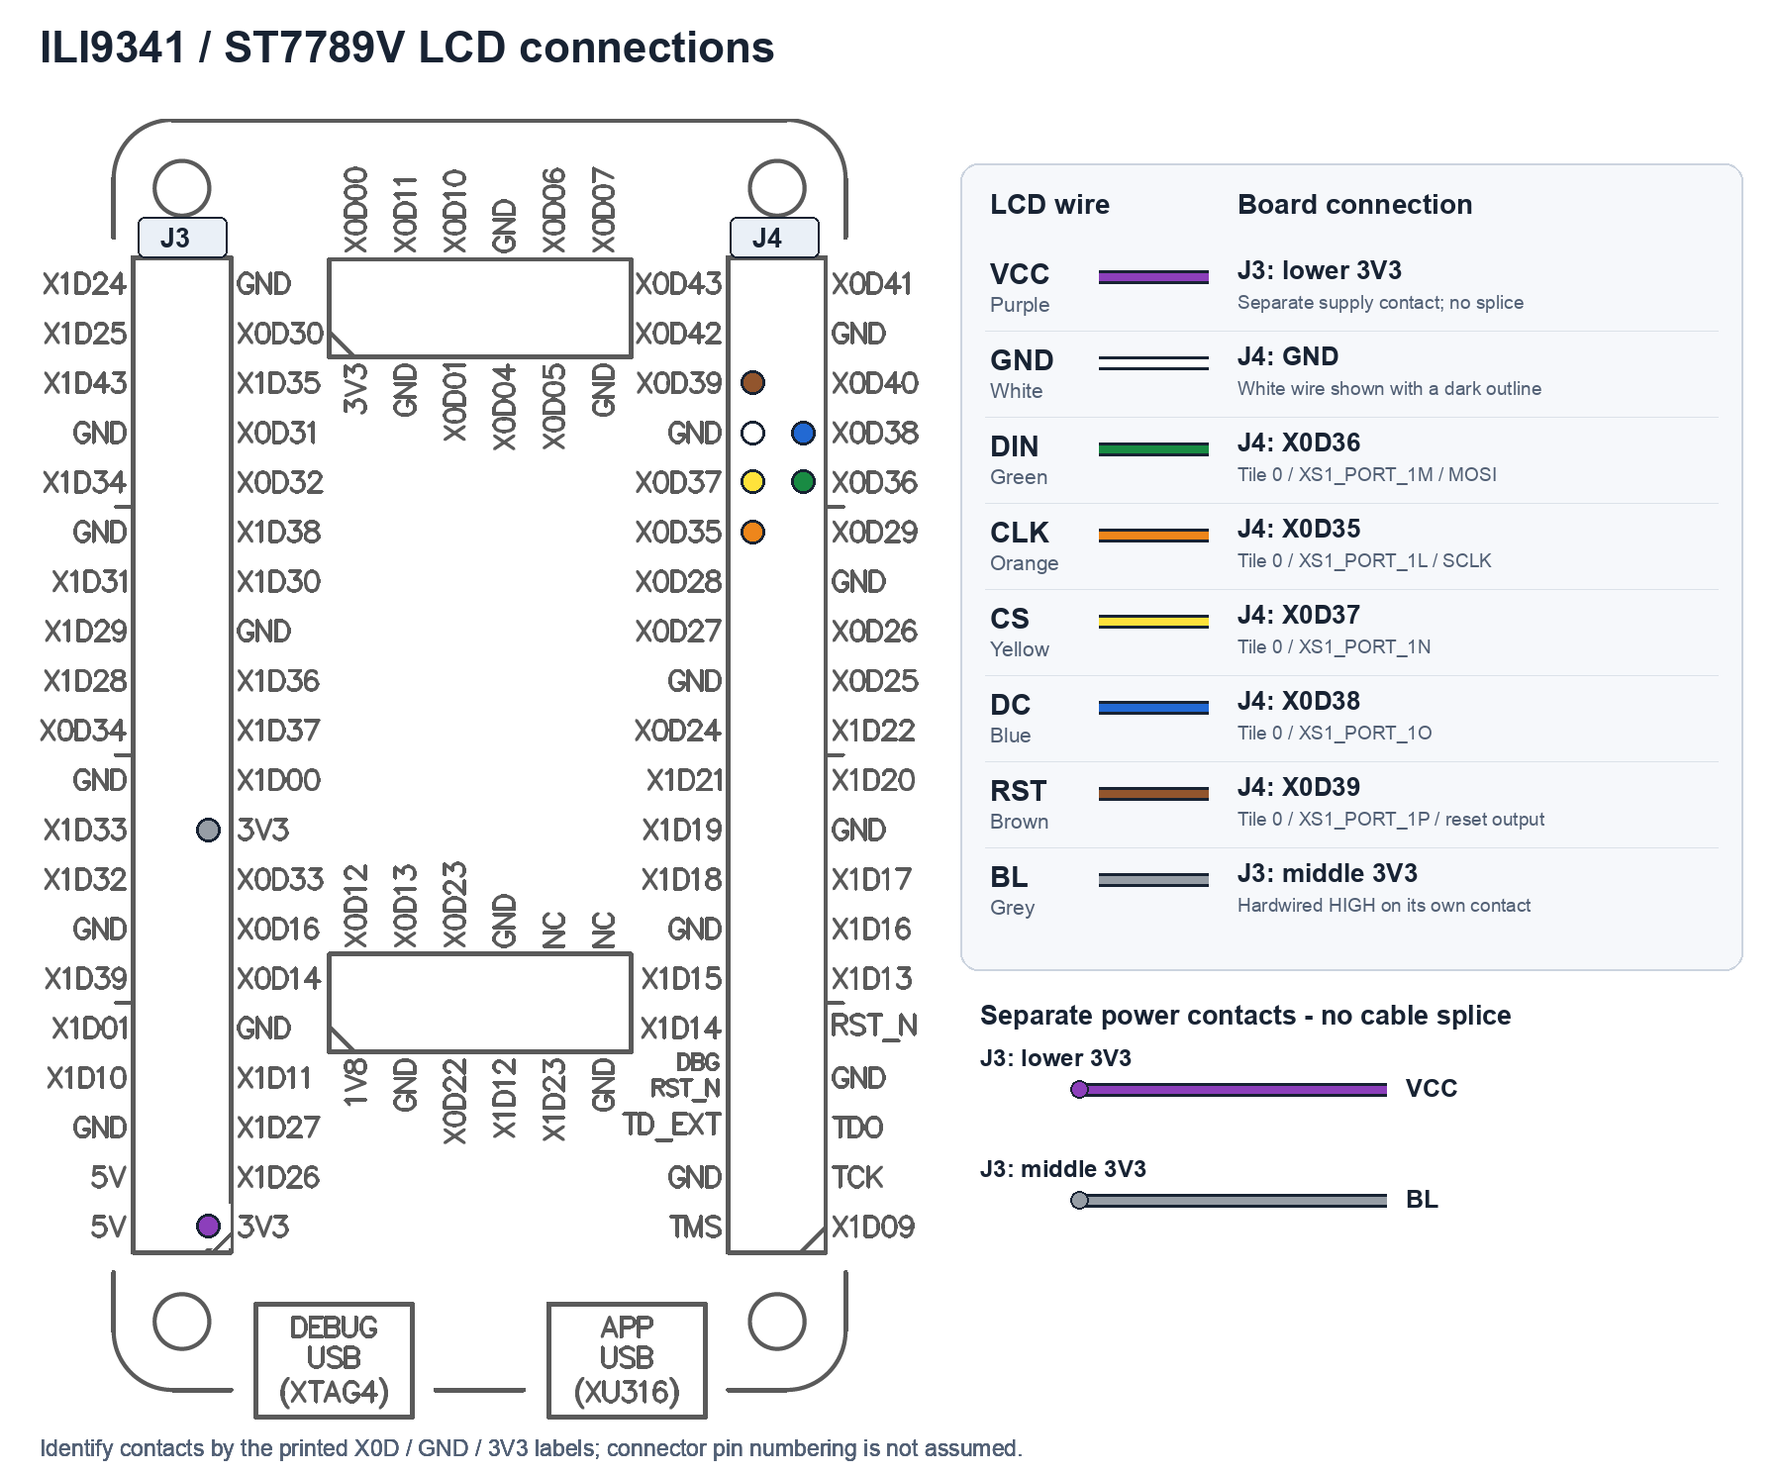
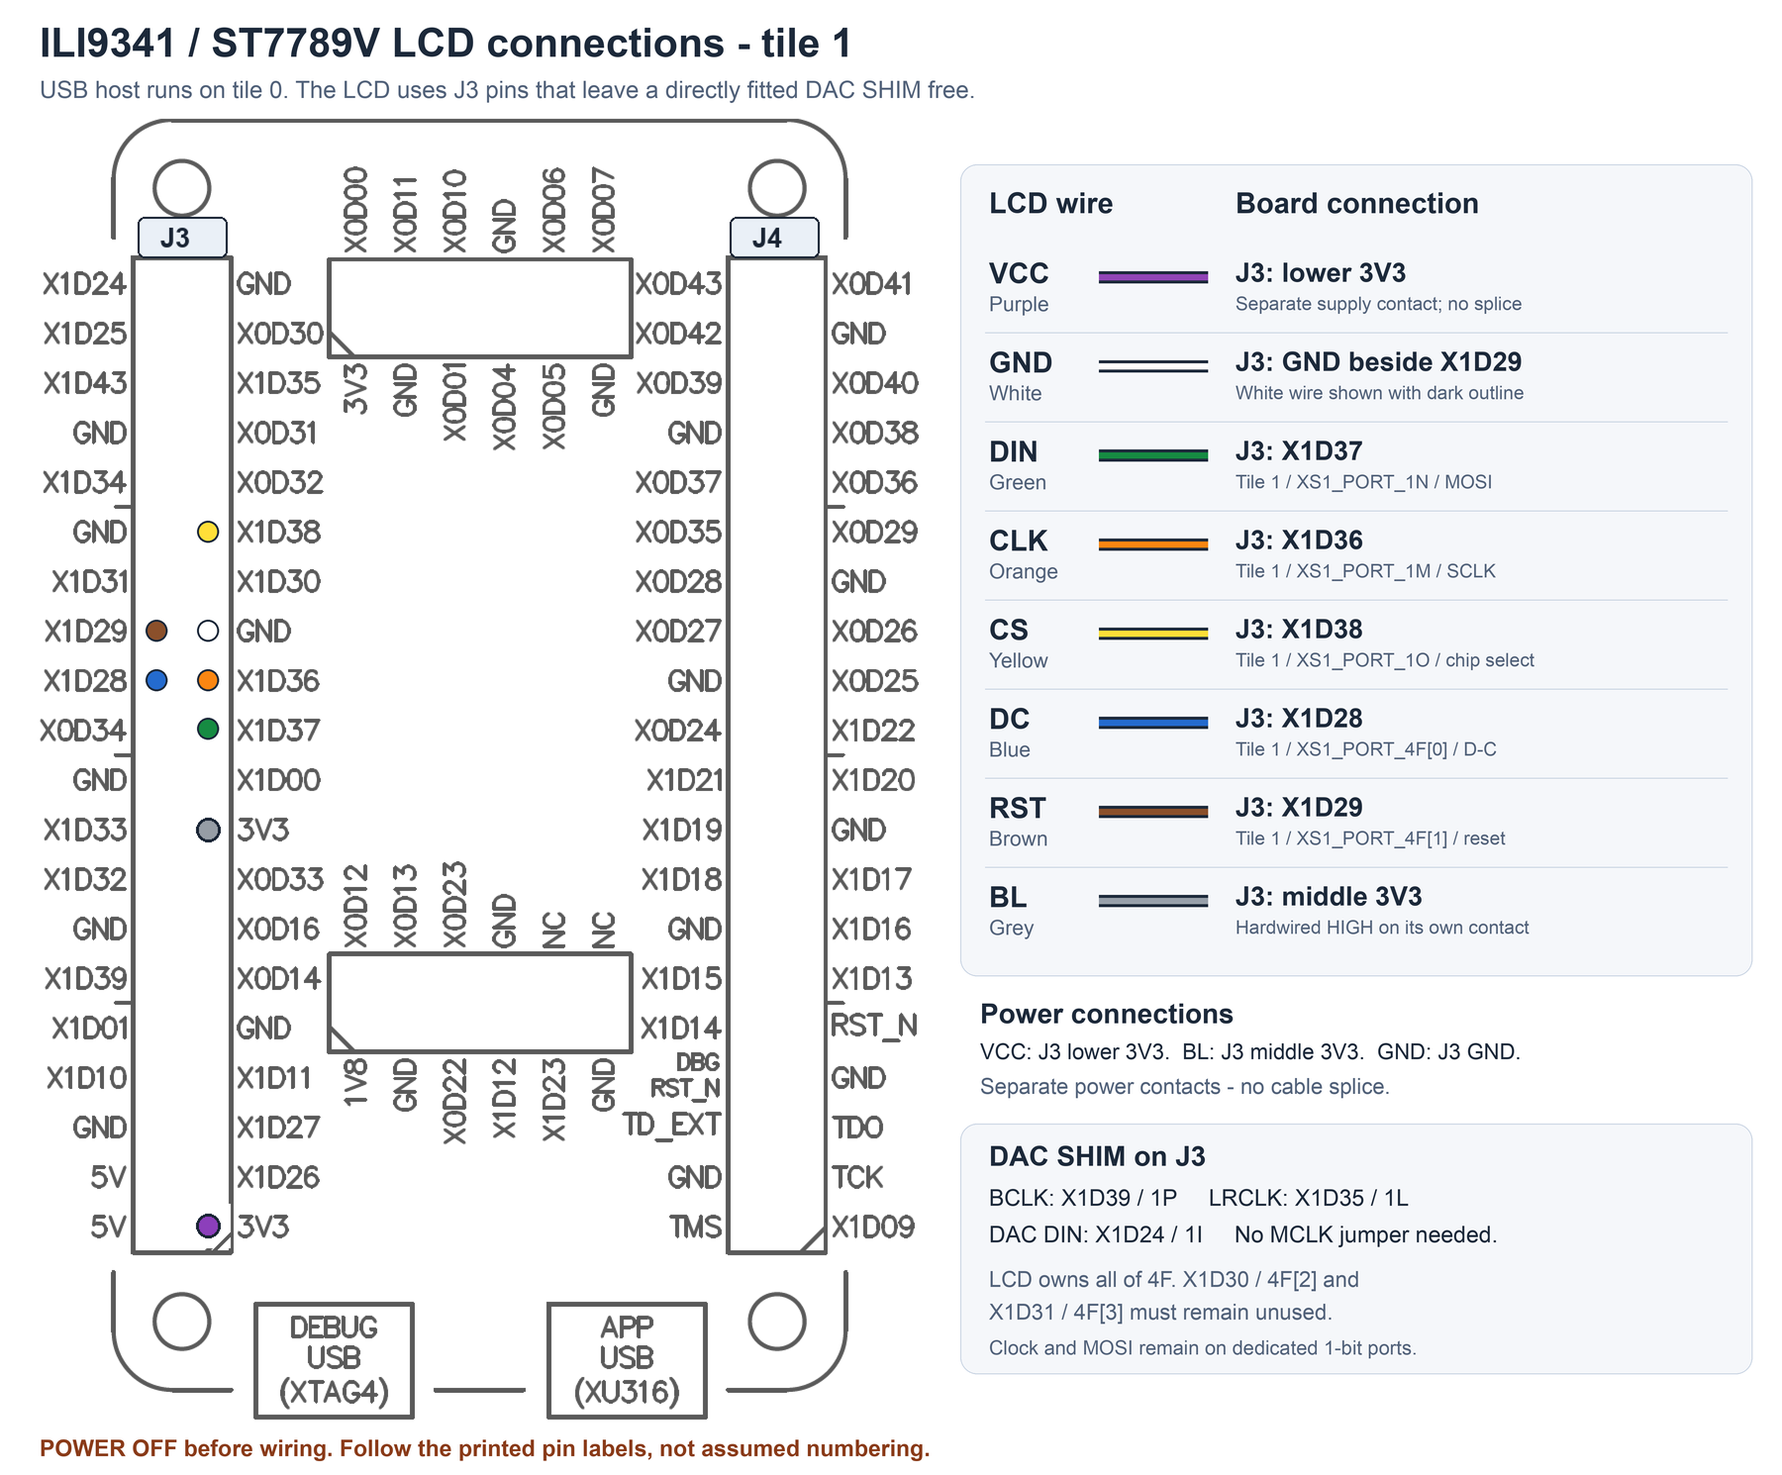
app_xuh_msc_player: run the USB host on tile 0 and the LCD on tile 1
With the USB host on tile 1, its pins clash with a DAC SHIM fitted on
J3. Swap the tiles: the USB host, loader and video decoder run on tile
0; the display and the MP2 decoder run on tile 1.

The LCD moves to J3 pins the DAC SHIM leaves free: SCLK X1D36 (1M),
MOSI X1D37 (1N), CS X1D38 (1O), and D/C and reset on X1D28 and X1D29,
bits 0 and 1 of port 4F.

The board's LEDs are on tile 1 and the LED task shares memory with the
USB host and decoder, so the player can no longer drive the activity
LED. The option is off and is rejected if enabled.

diff --git a/examples/app_xuh_msc_player/src/mpeg_pipeline.c b/examples/app_xuh_msc_player/src/mpeg_pipeline.c
@@ -61,9 +61,9 @@ void mpeg_pipeline_audio_clock(unsigned offset, unsigned valid)
     audio_clock_valid = valid;
 }
 
-/* Tile 1: two filesystem input chunks (one being read ahead while the other is
+/* Decoder tile: two filesystem input chunks (one being read ahead while the other is
  * fed), plus the memory passed to lib_mpeg.
- * Tile 0: two RGB565 framebuffers and one two-row YUV strip. No RGB888 frame. */
+ * Display tile: two RGB565 framebuffers and one two-row YUV strip. No RGB888 frame. */
 static unsigned char input[2][MPEG_LOAD_BYTES] __attribute__((aligned(4)));
 static unsigned char lcd_frames[2][PIPELINE_LCD_WIDTH * PIPELINE_LCD_HEIGHT * 2] __attribute__((aligned(4)));
 static unsigned strip[PIPELINE_LCD_WIDTH * 3 / 4];
@@ -72,7 +72,7 @@ static video_window_t lcd_windows[2];
 static unsigned lcd_video_ms[2];
 unsigned mpeg_pipeline_lcd_video_ms(unsigned slot) { return lcd_video_ms[slot]; }
 #endif
-/* Decoder memory, owned by tile 1. Only paced playback opts into a larger
+/* Decoder memory, owned by the decoder tile. Only paced playback opts into a larger
  * application arena; video-only/unpaced builds retain the library default. */
 static unsigned char video_memory[MPEG_PACED ? APP_XUH_MSC_PLAYER_MPEG_ARENA_BYTES :
                                              MPEG_VIDEO_MEMORY_SIZE] __attribute__((aligned(8)));
@@ -117,9 +117,9 @@ static void send_row(chanend c_image, const unsigned char *row, unsigned bytes)
     }
 }
 
-/* Send decoded planar YUV420 from tile 1 to the tile-0 receiver.
+/* Send decoded planar YUV420 from the decoder tile to the receiver.
  * Each payload word carries four 8-bit Y, Cb or Cr samples, not RGB pixels.
- * Tile 0 converts each two-row strip to RGB565. Wait for its acknowledgement
+ * The display tile converts each two-row strip to RGB565. Wait for its acknowledgement
  * before decoding can reuse the source planes. This handoff can block on
  * reception/conversion and on the receiver waiting for the LCD renderer. */
 static void send_frame(chanend c_image, const mpeg_frame_t *frame,
@@ -134,7 +134,7 @@ static void send_frame(chanend c_image, const mpeg_frame_t *frame,
     chanend_out_word(c_image, frame->frame_rate_num);
     chanend_out_word(c_image, frame->frame_rate_den);
     /* Transfer two Y rows plus their Cb/Cr row. Decoder-owned planes remain
-     * valid until tile 0 acknowledges staging; only then may decode continue. */
+     * valid until the receiver acknowledges staging; only then may decode continue. */
     for (unsigned y = 0; y < frame->height; y += 2) {
         send_row(c_image, frame->plane[0] + y * frame->stride[0], frame->width);
         send_row(c_image, frame->plane[0] + (y + 1) * frame->stride[0], frame->width);
@@ -142,7 +142,7 @@ static void send_frame(chanend c_image, const mpeg_frame_t *frame,
         send_row(c_image, frame->plane[2] + (y / 2) * frame->stride[2], frame->width / 2);
     }
     chanend_out_control_token(c_image, XS1_CT_END);
-    /* This includes channel backpressure while tile 0 receives/converts.
+    /* This includes channel backpressure while the receiver receives/converts.
      * Separate it from the final acknowledgement, which may wait for LCD. */
     unsigned sent = get_reference_time();
     unsigned ack;
@@ -489,7 +489,7 @@ static void receive_play(chanend c_image, chanend c_render)
 #if PIPELINE_VERIFY
         lcd_hash[slot] = hash_bytes(lcd_frames[slot], sizeof(lcd_frames[slot]));
 #endif
-        /* YUV is now fully consumed. Release tile 1 before waiting for LCD;
+        /* YUV is now fully consumed. Release the decoder before waiting for LCD;
          * the next send will backpressure until this RGB slot is published.
          * Sequence zero retains its first-display-complete handshake below. */
         if (sequence) pipeline_send(c_image, &sequence, 1);

diff --git a/examples/app_xuh_msc_player/src/video_loader.c b/examples/app_xuh_msc_player/src/video_loader.c
@@ -68,23 +68,23 @@ void video_loader_report(unsigned number, const video_play_t *play)
            (stats[PIPELINE_FIRST_COMPLETE] - play->start) / 100);
     printf("Average stage times (us per frame; overlapping stages are not additive):\n");
     printf("  %-24s %-9s %s\n", "Stage", "Tile", "us/frame");
-    printf("  %-24s %-9s %u\n", "Load", "1", (unsigned)(play->load_us / frames));
+    printf("  %-24s %-9s %u\n", "Load", "0", (unsigned)(play->load_us / frames));
 #if MSC_MPEG_PIPELINE
-    printf("  %-24s %-9s %u\n", "Wait for loader", "1", stats[MPEG_INPUT_WAIT_US] / frames);
-    printf("  %-24s %-9s %u\n", "Feed", "1", stats[MPEG_FEED_US] / frames);
+    printf("  %-24s %-9s %u\n", "Wait for loader", "0", stats[MPEG_INPUT_WAIT_US] / frames);
+    printf("  %-24s %-9s %u\n", "Feed", "0", stats[MPEG_FEED_US] / frames);
 #endif
-    printf("  %-24s %-9s %u\n", "Decode", "1", stats[PIPELINE_DECODE_TICKS] / frames);
-    printf("  %-24s %-9s %u\n", "Transmit / ack wait", "1 -> 0", stats[PIPELINE_TRANSFER_TICKS] / frames);
+    printf("  %-24s %-9s %u\n", "Decode", "0", stats[PIPELINE_DECODE_TICKS] / frames);
+    printf("  %-24s %-9s %u\n", "Transmit / ack wait", "0 -> 1", stats[PIPELINE_TRANSFER_TICKS] / frames);
 #if MSC_MPEG_PIPELINE
     /* These split the handoff above; do not add them to the total again. */
-    printf("  %-24s %-9s %u\n", "  Send YUV / backpressure", "1 -> 0", stats[MPEG_SEND_US] / frames);
-    printf("  %-24s %-9s %u\n", "  Wait receiver ack", "1", stats[MPEG_ACK_WAIT_US] / frames);
-    printf("  %-24s %-9s %u\n", "Receive YUV / wait", "0", stats[PIPELINE_RECEIVE_TICKS] / frames);
-    printf("  %-24s %-9s %u\n", "YUV -> RGB565", "0", stats[PIPELINE_CONVERT_TICKS] / frames);
-    printf("  %-24s %-9s %u\n", "Wait previous LCD", "0", stats[PIPELINE_RENDER_WAIT_TICKS] / frames);
+    printf("  %-24s %-9s %u\n", "  Send YUV / backpressure", "0 -> 1", stats[MPEG_SEND_US] / frames);
+    printf("  %-24s %-9s %u\n", "  Wait receiver ack", "0", stats[MPEG_ACK_WAIT_US] / frames);
+    printf("  %-24s %-9s %u\n", "Receive YUV / wait", "1", stats[PIPELINE_RECEIVE_TICKS] / frames);
+    printf("  %-24s %-9s %u\n", "YUV -> RGB565", "1", stats[PIPELINE_CONVERT_TICKS] / frames);
+    printf("  %-24s %-9s %u\n", "Wait previous LCD", "1", stats[PIPELINE_RENDER_WAIT_TICKS] / frames);
 #else
-    printf("  %-24s %-9s %u\n", "Receive / RGB565 convert", "0", stats[PIPELINE_CONVERT_TICKS] / frames);
+    printf("  %-24s %-9s %u\n", "Receive / RGB565 convert", "1", stats[PIPELINE_CONVERT_TICKS] / frames);
 #endif
-    printf("  %-24s %-9s %u\n", "LCD SPI", "0", stats[PIPELINE_RENDER_TICKS] / frames);
+    printf("  %-24s %-9s %u\n", "LCD SPI", "1", stats[PIPELINE_RENDER_TICKS] / frames);
 }
 #endif

diff --git a/examples/app_xuh_msc_player/src/jpeg_pipeline.c b/examples/app_xuh_msc_player/src/jpeg_pipeline.c
@@ -9,14 +9,14 @@
 #include "jpeg.h"
 #include "fps_overlay.h"
 
-/* Tile 1: double-buffered compressed input, single full-screen RGB output.
+/* Decoder tile: double-buffered compressed input, single full-screen RGB output.
  * Only the loader writes input, only the decoder writes RGB.
  * Slot ownership is transferred by the ready/free channel messages. */
 static unsigned char jpeg_input[2][PIPELINE_INPUT_BYTES] __attribute__((aligned(4)));
 static unsigned char jpeg_rgb[PIPELINE_RGB_BYTES] __attribute__((aligned(4)));
 static unsigned char jpeg_work[JPEG_DECODE_WORK_SIZE] __attribute__((aligned(4)));
 
-/* Tile 0: the receiver fills one slot while the LCD task renders the other. */
+/* Display tile: the receiver fills one slot while the LCD task renders the other. */
 static unsigned char lcd_frames[2][PIPELINE_LCD_HEIGHT * PIPELINE_LCD_WIDTH * 2];
 
 #if PIPELINE_VERIFY

diff --git a/examples/app_xuh_msc_player/src/activity_led.h b/examples/app_xuh_msc_player/src/activity_led.h
@@ -9,8 +9,8 @@ enum { ACTIVITY_LED_BUSY = 1, ACTIVITY_LED_ERROR = 2, ACTIVITY_LED_FRAME = 4 };
 #define ACTIVITY_LED_FRAME_MASK 0xff000000u
 
 #if APP_XUH_MSC_PLAYER_ACTIVITY_LED
-/* Tile 1 only. USBHost owns usb(); the decoder owns decode(). Errors latch
- * until reset. FRAME marks a successfully decoded frame, not an input request.
+/* The task and both callers must share a tile. USBHost owns usb(); the decoder
+ * owns decode(). Errors latch until reset. FRAME marks a successfully decoded frame, not an input request.
  * These best-effort updates never wait for the LED task. */
 void activity_led_usb(unsigned flags);
 void activity_led_decode(unsigned flags);

diff --git a/examples/app_xuh_msc_player/src/activity_led.c b/examples/app_xuh_msc_player/src/activity_led.c
@@ -110,7 +110,7 @@ void activity_led_decode(unsigned flags) { publish_word(&decode_word, flags); }
 
 void activity_led_task(void)
 {
-    const port_t port = XS1_PORT_32A; /* Tile 1: bit 0 green, bit 1 red. */
+    const port_t port = XS1_PORT_32A; /* Board tile 1: bit 0 green, bit 1 red. */
     const unsigned invert = APP_XUH_MSC_PLAYER_LED_ACTIVE_LOW ? 3u : 0u;
     activity_led_effect_t effect = {{0, 0}, {0, 0}, 0, 0, 0, 0, 0};
     activity_led_edge_t edges[3];

diff --git a/examples/app_xuh_msc_player/src/video_config.h b/examples/app_xuh_msc_player/src/video_config.h
@@ -17,7 +17,7 @@
 
 /* Player settings. Change them here, not in CMake.
  *
- * Memory given to the video decoder on tile 1 when playback is paced to audio.
+ * Memory given to the video decoder when playback is paced to audio.
  * lib_mpeg divides it between the pictures and compressed input; the input
  * part is where video waits for its audio. This default completed the
  * reference 320x180 program stream. Video-only and unpaced builds use the

diff --git a/examples/app_xuh_msc_player/src/xud_conf.h b/examples/app_xuh_msc_player/src/xud_conf.h
@@ -1,2 +1,2 @@
 
-#define USB_TILE tile[1]
+#define USB_TILE tile[0]

diff --git a/doc/rst/lib_xuh.rst b/doc/rst/lib_xuh.rst
@@ -47,8 +47,8 @@ default control endpoint; the others are for class drivers.
     {
         chan c_out[NUM_EPS], c_in[NUM_EPS];
         par {
-            on tile[1]: XUH_Manager(c_out, NUM_EPS, c_in, NUM_EPS);
-            on tile[1]: UsbHost(c_out, NUM_EPS, c_in, NUM_EPS);
+            on tile[0]: XUH_Manager(c_out, NUM_EPS, c_in, NUM_EPS);
+            on tile[0]: UsbHost(c_out, NUM_EPS, c_in, NUM_EPS);
         }
         return 0;
     }
@@ -314,8 +314,8 @@ benchmark configuration:
      - ``ON``
      - Draw a smoothed measured-FPS gauge with the MPEG source-rate target
    * - ``APP_XUH_MSC_PLAYER_ACTIVITY_LED``
-     - ``ON`` on AIV
-     - Enable the activity/status LED task
+     - ``OFF``
+     - Activity/status LED task; not available in the player (see below)
    * - ``APP_XUH_MSC_PLAYER_LED_ACTIVE_LOW``
      - ``OFF``
      - Invert LED outputs for active-low wiring
@@ -365,29 +365,34 @@ LCD connection
 
 Both supported controllers are 240 x 320 panels used in 320 x 240 landscape.
 The controller is selected at build time, not detected from hardware. MISO is
-unused; connect the LCD and XU316 grounds together.
+unused; connect the LCD and XU316 grounds together. The USB host runs on tile 0
+and the LCD is driven from tile 1, on J3 pins that a directly fitted DAC SHIM
+does not use.
 
-.. list-table:: Tile-0 LCD pins
+.. list-table:: Tile-1 LCD pins
    :header-rows: 1
 
    * - Signal
      - xcore port
      - Device pin
    * - SCLK
-     - ``XS1_PORT_1L``
-     - ``X0D35``
-   * - MOSI
      - ``XS1_PORT_1M``
-     - ``X0D36``
-   * - CS
+     - ``X1D36``
+   * - MOSI
      - ``XS1_PORT_1N``
-     - ``X0D37``
-   * - DC
+     - ``X1D37``
+   * - CS
      - ``XS1_PORT_1O``
-     - ``X0D38``
+     - ``X1D38``
+   * - DC
+     - ``XS1_PORT_4F`` bit 0
+     - ``X1D28``
    * - RST
-     - ``XS1_PORT_1P``
-     - ``X0D39``
+     - ``XS1_PORT_4F`` bit 1
+     - ``X1D29``
+
+The LCD task owns all of port 4F, so ``X1D30`` and ``X1D31`` must stay
+unconnected.
 
 .. figure:: img/board_lcd.png
    :width: 100%
@@ -492,7 +497,7 @@ independent of the target rate.
 
 The program-stream player supports MPEG-1 pack/PES headers, video stream 0xe0
 and MP2 audio stream 0xc0. It skips other packet types and rejects MPEG-2 pack
-headers. MP2 PCM is decoded on tile 0 and discarded; there is no physical audio
+headers. MP2 PCM is decoded on tile 1 and discarded; there is no physical audio
 output. By default the audio task consumes blocks at their sample rate as a
 stand-in for playback. Video is paced against this clock, using the initial PES
 timestamps to relate the stream starts. This is an experimental timing path,
@@ -541,7 +546,7 @@ refresh delay is not included.
 
 Edit ``src/video_config.h`` to change the arena budget; it is not a CMake cache
 option.
-The 400-KiB arena spends another 16 KiB of tile-1 RAM compared with the library
+The 400-KiB arena spends another 16 KiB of tile-0 RAM compared with the library
 default and provides about 129 KiB of compressed input for 320 x 180 pictures. The
 larger arena applies only to paced audio/video builds, not library defaults or
 video-only/unpaced storage. Check the link report and stack caveats before
@@ -588,9 +593,9 @@ the player does not read the host-side ``data/`` directory.
 Pipeline and ownership
 ----------------------
 
-Tile 1 owns the USB manager, FatFs/read-ahead loader and video decoder. Tile 0
+Tile 0 owns the USB manager, FatFs/read-ahead loader and video decoder. Tile 1
 owns the pixel receiver/converter, LCD renderer and SPI master. The optional MP2
-decoder also runs on tile 0; the activity LED runs on tile 1.
+decoder also runs on tile 1.
 
 ``src/video_loader.c`` provides the shared, storage-independent loader. A source
 returns either one complete JPEG frame or an MPEG chunk of at most 4096 bytes.
@@ -599,17 +604,17 @@ Ready messages carry slot/sequence/size; acknowledgements explicitly release
 ownership and apply bounded backpressure. Stop/error messages drain pending
 work, and workers remain alive between plays.
 
-For MJPEG, tile 1 has two 30-KiB compressed slots and one 230400-byte RGB888
+For MJPEG, tile 0 has two 30-KiB compressed slots and one 230400-byte RGB888
 buffer. Decode and RGB transmission do not overlap; file loading and LCD output
-can overlap decoding. Tile 0 converts received pixels into two 153600-byte
+can overlap decoding. Tile 1 converts received pixels into two 153600-byte
 RGB565 framebuffers, allowing receive/conversion to overlap rendering.
 
-For MPEG, tile 1 has two 4096-byte loader slots and a 384-KiB decoder arena
+For MPEG, tile 0 has two 4096-byte loader slots and a 384-KiB decoder arena
 (400 KiB for paced audio/video by default).
 The decoder/transmitter sends each picture as two-row YUV420 strips using the
-library plane strides. Tile 0 converts a 960-byte strip directly into one of its
+library plane strides. Tile 1 converts a 960-byte strip directly into one of its
 two RGB565 framebuffers; no full RGB888 or extra YUV framebuffer is allocated.
-Once conversion, overlay and optional hashing finish, tile 0 acknowledges YUV
+Once conversion, overlay and optional hashing finish, tile 1 acknowledges YUV
 ownership before waiting for the previous LCD render. The next send backpressures
 until a safe RGB slot is available. Frame zero waits for the first LCD completion;
 EOF drains the final render before statistics return.
@@ -621,9 +626,9 @@ be reused only after rendering completes. Multi-sector READ(10) commands serve
 FatFs reads, with at most 64 512-byte sectors per command. Display work and
 filesystem reads do not execute inside the USB manager.
 
-The large memory model is required. A default MPEG-1 build uses 332516 bytes on
-tile 0 and 482692 bytes on tile 1, including code, data and reserved stacks;
-41596 bytes remain on tile 1. These are build-dependent figures, not an SRAM
+The large memory model is required. A default MPEG-1 build uses 478412 bytes on
+tile 0 and 333700 bytes on tile 1, including code, data and reserved stacks;
+45876 bytes remain on tile 0. These are build-dependent figures, not an SRAM
 budget for arbitrary additions. The decoder's 16-KiB stack reservation is
 provisional because callback branches prevent complete automatic analysis.
 
@@ -631,6 +636,10 @@ Activity/status LED
 -------------------
 
 On the example hardware, tile-1 port 32A bits 0 and 1 drive active-high green and red LEDs.
+The LED task reads words published, without a channel, by the USB host and the
+decoder, so it must share their tile. In the player those run on tile 0, so the
+player cannot drive the LED and rejects ``APP_XUH_MSC_PLAYER_ACTIVITY_LED=ON``.
+The task and its tests remain; the effect is as follows.
 Idle is dim green breathing; storage operations pulse green, decoding adds red,
 and completed frames trigger rate-limited red accents. Reported errors latch a
 double-red-flash pattern until reset. A blocked USB operation remains busy:
@@ -683,37 +692,37 @@ build with ``-DAPP_XUH_MSC_PLAYER_MPEG_FILE=VIDEO.MPG`` when measuring.
      - Tile
      - Time
    * - Load
-     - 1
+     - 0
      - 1.884
    * - Wait for loader
-     - 1
+     - 0
      - 0.500
    * - Feed
-     - 1
+     - 0
      - 0.097
    * - Decode
-     - 1
+     - 0
      - 19.137
    * - Transmit / acknowledgement wait
-     - 1 to 0
+     - 0 to 1
      - 10.014
    * - Receive YUV / wait
-     - 0
+     - 1
      - 1.310
    * - YUV to RGB565
-     - 0
+     - 1
      - 5.766
    * - Wait previous LCD
-     - 0
+     - 1
      - 6.318
    * - LCD SPI
-     - 0
+     - 1
      - 25.471
 
 Wait/feed/decode/handoff run serially on the decoder task and occupy about
 29.7 ms/frame. Loading, receive/conversion and LCD output overlap other stages;
 do not add them as independent costs. Send time includes blocked channel output
-while tile 0 converts or waits for a buffer; it is not pure link bandwidth.
+while tile 1 converts or waits for a buffer; it is not pure link bandwidth.
 The 25.471-ms LCD transaction gives an approximately 39.3-FPS display ceiling,
 but the whole player is not at that ceiling.
 
